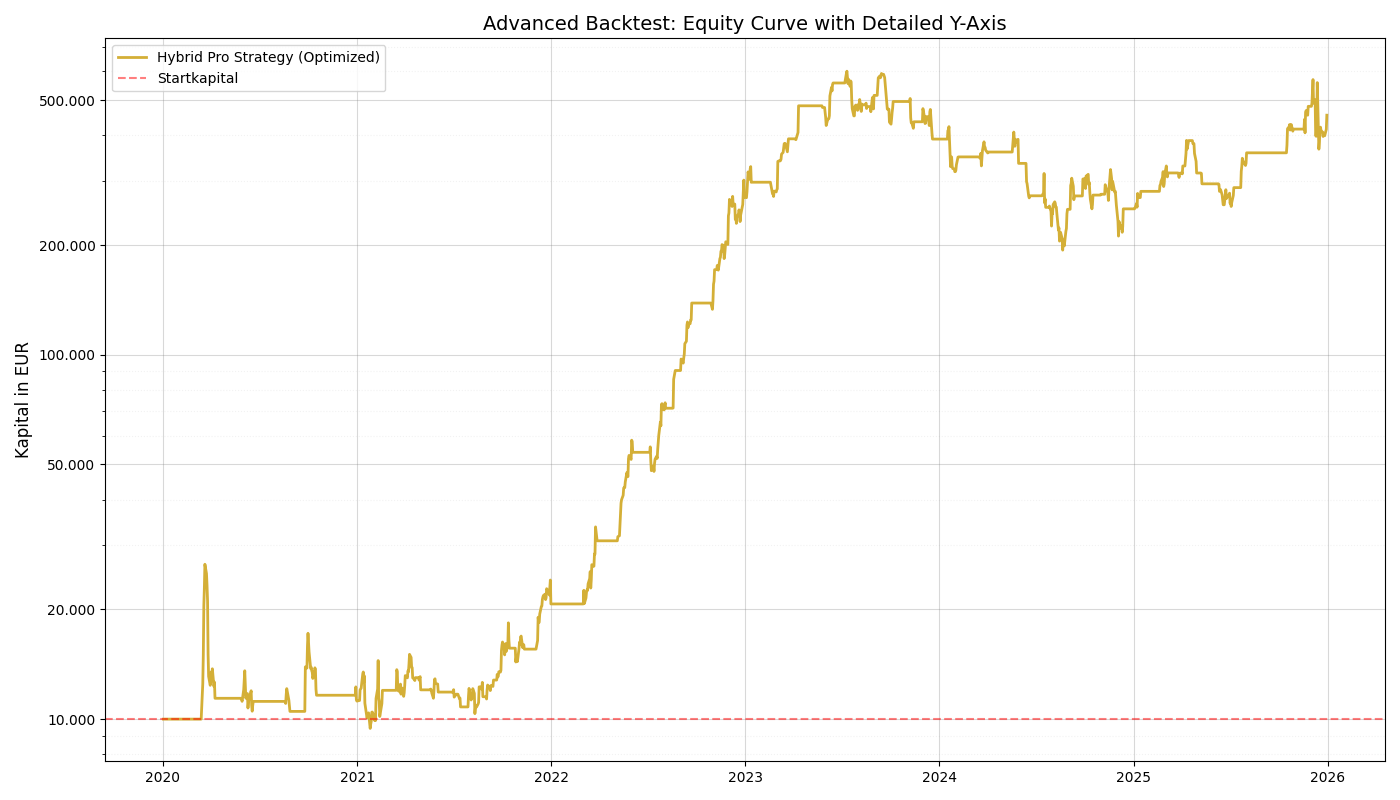
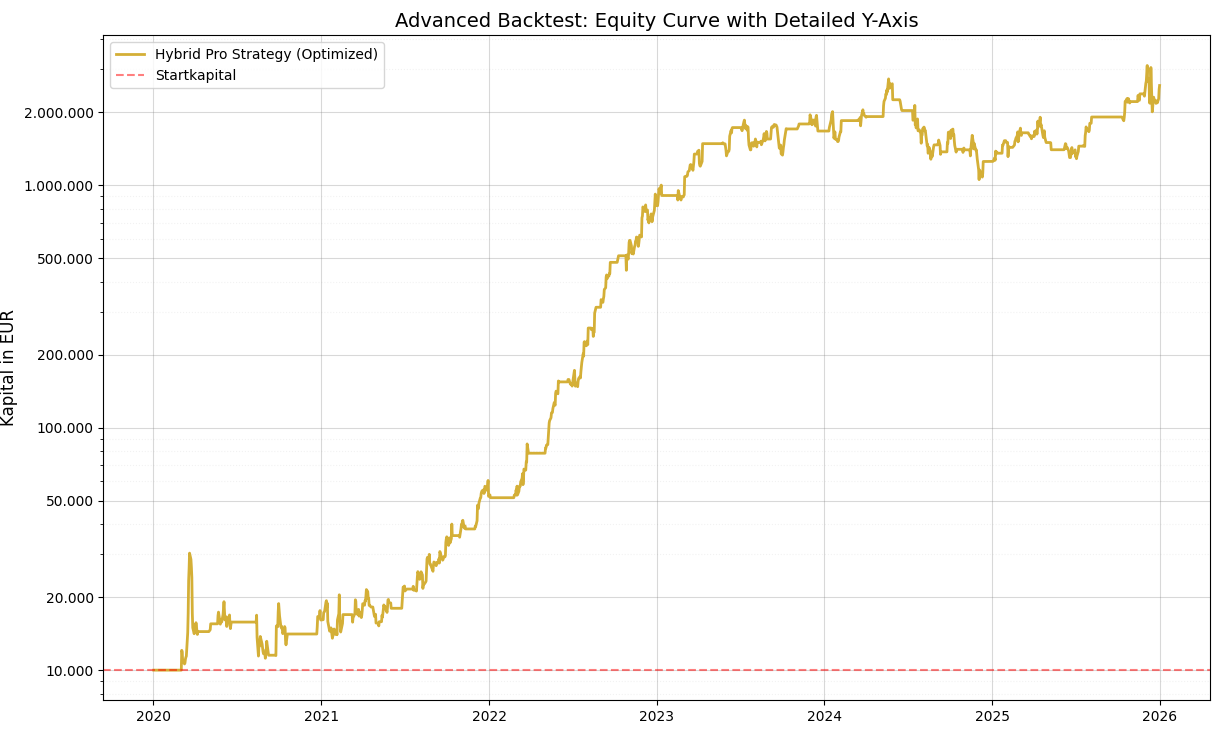
optimized silver

diff --git a/Python Backtesting/3xSilver Hybrid Pro (ATR-TSL & Risk Management).py b/Python Backtesting/3xSilver Hybrid Pro (ATR-TSL & Risk Management).py
@@ -15,16 +15,16 @@ START_DATE       = "2020-01-01"
 INITIAL_CAPITAL  = 10000.0
 
 # Indikator Parameter (Silver Needs Speed & Room)
-VORTEX_PERIOD    = 14
-EMA_SPAN_VORTEX  = 10          # Stärkere Glättung für Silber-Rauschen
+VORTEX_PERIOD    = 12
+EMA_SPAN_VORTEX  = 15          # Stärkere Glättung für Silber-Rauschen
 ADX_PERIOD       = 14
-ADX_ENTRY_LEVEL  = 25          # Hohe Hürde, um "Fake-Ausbrüche" zu vermeiden
-ADX_EXIT_LEVEL   = 20          # Engere Hysterese für Silber
-VXSLV_CRITICAL   = 38.0        # Regime-Filter: Engerer Stop wenn VXSLV > 38
+ADX_ENTRY_LEVEL  = 21          # Hohe Hürde, um "Fake-Ausbrüche" zu vermeiden
+ADX_EXIT_LEVEL   = 21          # Engere Hysterese für Silber
+VXSLV_CRITICAL   = 21.13        # Regime-Filter: Engerer Stop wenn VXSLV > 38
 
 # Risiko & Stop-Loss (Hard-Cap Protection)
-ATR_MULT_STD     = 3.5         # Silber braucht weniger Platz als Gold, da explosiver
-ATR_MULT_TIGHT   = 2.0         
+ATR_MULT_STD     = 4.96         # Silber braucht weniger Platz als Gold, da explosiver
+ATR_MULT_TIGHT   = 1.78         
 MAX_PERCENT_STOP = 0.12        # Hard-Cap: 12% vom Peak (ungehebelt)
 HEBEL            = 3.0
 MASTER_TREND_RES = "3D"        # 3-Tage-Auflösung ist der Sweet-Spot für Silber

diff --git a/Python Backtesting/Hybrid Pro Bayesian Optimizer.py b/Python Backtesting/Hybrid Pro Bayesian Optimizer.py
@@ -8,21 +8,21 @@ import matplotlib.ticker as mtick
 # --- 1. CONFIGURATION & STARTING VALUES ---
 # Zentrale Konfiguration für die Generalisierung
 BASE_CONFIG = {
-    "SYMBOL_FUTURES": "GC=F",
-    "SYMBOL_VOLA": "^GVZ",
-    "SYMBOL_LONG_ETF": "3GOL.L",
-    "SYMBOL_SHORT_ETF": "3GOS.L",
+    "SYMBOL_FUTURES": "SI=F",
+    "SYMBOL_VOLA": "^VXSLV",
+    "SYMBOL_LONG_ETF": "3LSI.L",
+    "SYMBOL_SHORT_ETF": "3SSI.L",
     "START_DATE": "2020-01-01",
     "MASTER_TREND_RES": "3D",
-    "TRIAL_RUNS": 200,
+    "TRIAL_RUNS": 100,
     # Startwerte für die Vortex-Optimierung
     "INIT_VORTEX_PERIOD": 14,
-    "INIT_VORTEX_EMA": 5,
-    "INIT_ADX_ENTRY": 20,
-    "INIT_ADX_EXIT": 18,
-    "INIT_VOLA_CRIT": 22.0,
-    "INIT_ATR_STD": 4.5,
-    "INIT_ATR_TIGHT": 2.5
+    "INIT_VORTEX_EMA": 10,
+    "INIT_ADX_ENTRY": 25,
+    "INIT_ADX_EXIT": 20,
+    "INIT_VOLA_CRIT": 38.0,
+    "INIT_ATR_STD": 3.5,
+    "INIT_ATR_TIGHT": 2.0
 }
 
 # --- 2. GLOBAL DATA LOADING ---
